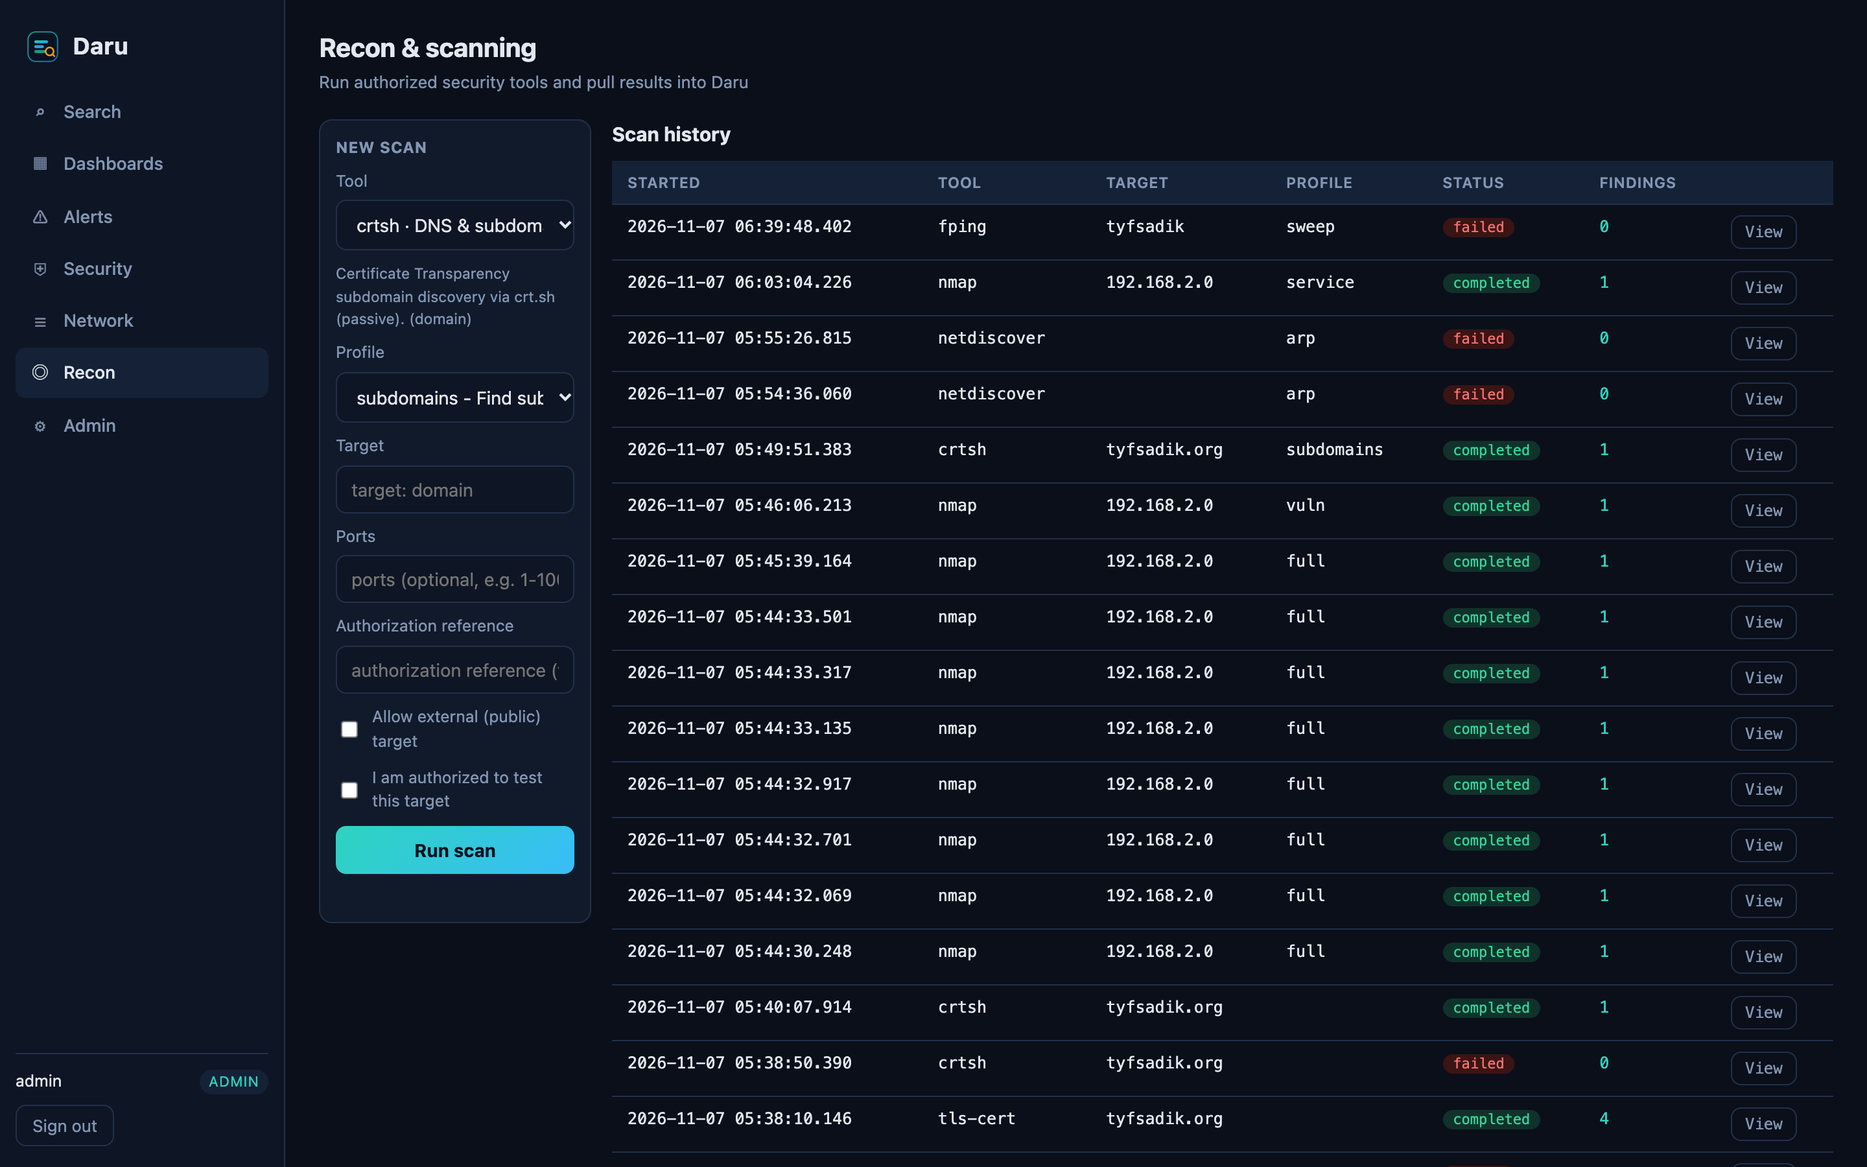
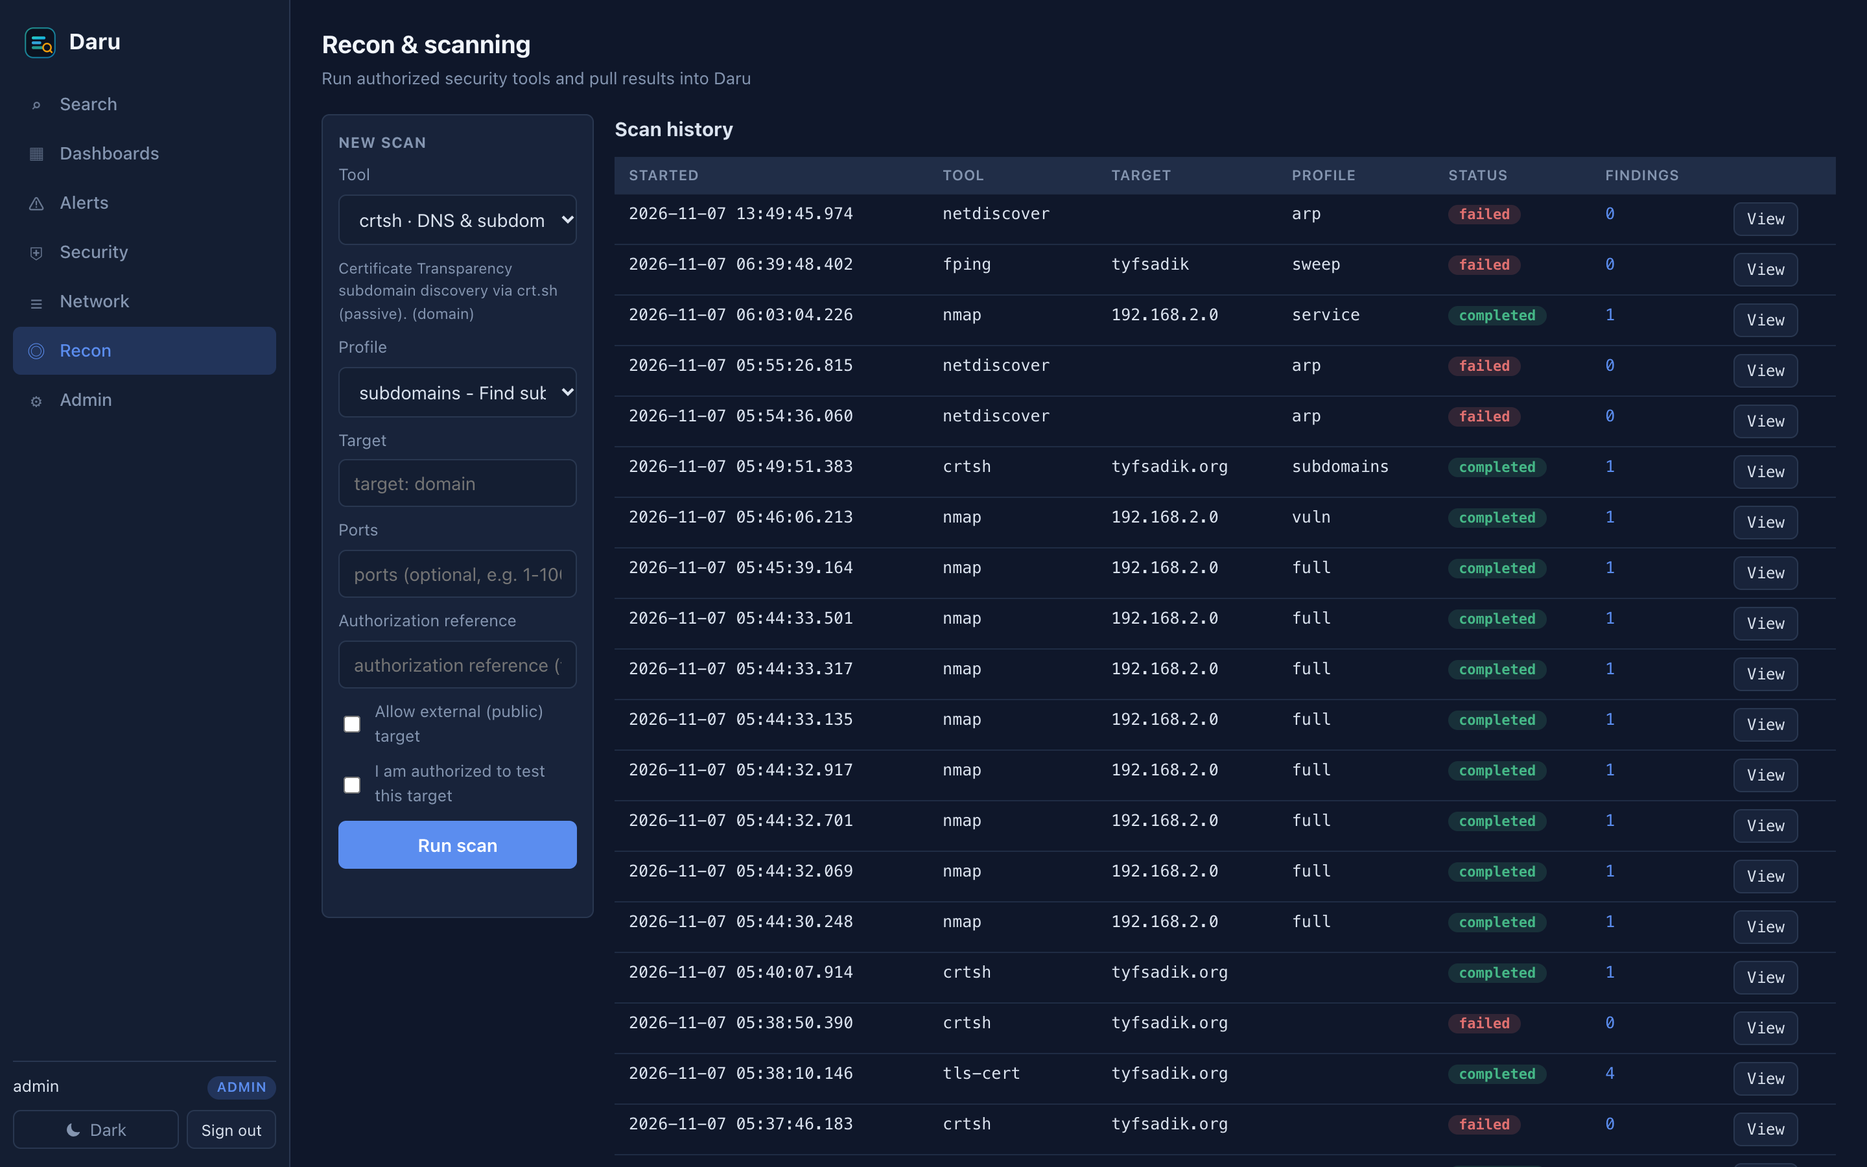
Restyle UI for a muted enterprise look with a light and dark theme
Replace the glowing teal palette with a muted slate-and-blue enterprise
theme, flatten buttons and badges, tighten table density, and soften the
chart colors. Add a light theme and a persistent light/dark toggle in the
sidebar. Rebrand the banner and recapture screenshots in both themes.

diff --git a/internal/web/static/style.css b/internal/web/static/style.css
@@ -1,144 +1,200 @@
+/* Daru UI. Enterprise SIEM look with a light and a dark theme.
+   Colors are tokens; non-color sizing lives in :root and is shared. */
 :root {
-  --bg: #0a0f1a;
-  --bg-2: #0e1524;
-  --panel: #111a2b;
-  --panel-2: #152136;
-  --border: #22304a;
-  --text: #e2e8f0;
-  --muted: #8296b3;
-  --accent: #2dd4bf;
-  --accent-2: #38bdf8;
-  --amber: #f59e0b;
-  --red: #f87171;
-  --green: #34d399;
   --mono: ui-monospace, "SF Mono", "JetBrains Mono", Menlo, Consolas, monospace;
-  --sans: system-ui, -apple-system, "Segoe UI", Roboto, sans-serif;
+  --sans: system-ui, -apple-system, "Segoe UI", Roboto, Helvetica, sans-serif;
+  --radius: 6px;
+  --radius-lg: 10px;
 }
+
+/* Dark enterprise theme (default) */
+:root, :root[data-theme="dark"] {
+  --bg: #0f172a;
+  --bg-2: #141e32;
+  --panel: #18233a;
+  --panel-2: #202d47;
+  --border: #293750;
+  --border-soft: #1f2c44;
+  --text: #dbe3ef;
+  --text-strong: #f1f5fb;
+  --muted: #8495b0;
+  --accent: #5b8def;
+  --accent-weak: #22345a;
+  --info: #4aa8d8;
+  --green: #45b887;
+  --amber: #d59b3f;
+  --red: #e07070;
+  --on-accent: #ffffff;
+  --shadow: 0 10px 30px rgba(0,0,0,0.35);
+}
+
+/* Light theme */
+:root[data-theme="light"] {
+  --bg: #f4f6fa;
+  --bg-2: #eceff5;
+  --panel: #ffffff;
+  --panel-2: #f2f5fa;
+  --border: #d8dee8;
+  --border-soft: #e5e9f0;
+  --text: #28344a;
+  --text-strong: #141c2b;
+  --muted: #5e6b80;
+  --accent: #2f6fe0;
+  --accent-weak: #e4edfc;
+  --info: #1a84b8;
+  --green: #1f9d63;
+  --amber: #b9791d;
+  --red: #d04848;
+  --on-accent: #ffffff;
+  --shadow: 0 8px 24px rgba(31,42,64,0.10);
+}
+
 * { box-sizing: border-box; }
 html, body { height: 100%; }
 body {
   margin: 0; background: var(--bg); color: var(--text);
   font-family: var(--sans); font-size: 14px; line-height: 1.5;
+  -webkit-font-smoothing: antialiased;
 }
 .hidden { display: none !important; }
-a { color: var(--accent-2); text-decoration: none; }
+a { color: var(--accent); text-decoration: none; }
+a:hover { text-decoration: underline; }
 button { font-family: inherit; cursor: pointer; }
 
 /* Layout */
-.app { display: grid; grid-template-columns: 220px 1fr; height: 100vh; }
+.app { display: grid; grid-template-columns: 224px 1fr; height: 100vh; }
 .sidebar {
   background: var(--bg-2); border-right: 1px solid var(--border);
-  display: flex; flex-direction: column; padding: 16px 12px;
+  display: flex; flex-direction: column; padding: 14px 10px;
 }
-.brand { display: flex; align-items: center; gap: 10px; padding: 6px 8px 18px; }
-.brand-name { font-weight: 700; font-size: 18px; letter-spacing: 0.5px; }
-.nav { display: flex; flex-direction: column; gap: 2px; flex: 1; }
+.brand { display: flex; align-items: center; gap: 9px; padding: 6px 8px 16px; }
+.brand-name { font-weight: 700; font-size: 17px; letter-spacing: 0.3px; color: var(--text-strong); }
+.nav { display: flex; flex-direction: column; gap: 1px; flex: 1; }
 .nav a {
-  display: flex; align-items: center; gap: 10px; padding: 9px 11px;
-  border-radius: 8px; color: var(--muted); font-weight: 500; font-size: 13.5px;
+  display: flex; align-items: center; gap: 10px; padding: 8px 10px;
+  border-radius: var(--radius); color: var(--muted); font-weight: 500; font-size: 13.5px;
 }
-.nav a:hover { background: var(--panel); color: var(--text); }
-.nav a.active { background: var(--panel-2); color: var(--text); }
-.nav a .ic { width: 16px; text-align: center; opacity: 0.9; }
-.sidebar-foot { border-top: 1px solid var(--border); padding-top: 12px; margin-top: 8px; }
-.user-chip { display: flex; align-items: center; justify-content: space-between; font-size: 12.5px; margin-bottom: 8px; }
-.role-badge { background: var(--panel-2); color: var(--accent); padding: 1px 7px; border-radius: 10px; font-size: 11px; text-transform: uppercase; letter-spacing: 0.5px; }
-.main { overflow: auto; padding: 22px 26px; }
+.nav a:hover { background: var(--panel); color: var(--text); text-decoration: none; }
+.nav a.active { background: var(--accent-weak); color: var(--accent); }
+.nav a.active .ic { opacity: 1; }
+.nav a .ic { width: 16px; text-align: center; opacity: 0.75; font-size: 14px; }
+.sidebar-foot { border-top: 1px solid var(--border); padding-top: 10px; margin-top: 8px; display: flex; flex-direction: column; gap: 8px; }
+.user-chip { display: flex; align-items: center; justify-content: space-between; font-size: 12.5px; }
+.role-badge { background: var(--accent-weak); color: var(--accent); padding: 1px 7px; border-radius: 10px; font-size: 10.5px; text-transform: uppercase; letter-spacing: 0.5px; font-weight: 600; }
+.foot-actions { display: flex; gap: 6px; }
+.main { overflow: auto; padding: 20px 24px; }
+
+/* Theme toggle */
+.theme-toggle {
+  background: transparent; color: var(--muted); border: 1px solid var(--border);
+  border-radius: var(--radius); padding: 6px 10px; font-size: 13px; display: inline-flex;
+  align-items: center; gap: 7px; flex: 1; justify-content: center;
+}
+.theme-toggle:hover { color: var(--text); border-color: var(--accent); }
 
 /* Login */
-.login { display: grid; place-items: center; height: 100vh; background: radial-gradient(1200px 600px at 50% -10%, #12243b 0%, var(--bg) 55%); }
-.login-card { background: var(--panel); border: 1px solid var(--border); border-radius: 16px; padding: 32px; width: 340px; display: flex; flex-direction: column; gap: 12px; box-shadow: 0 24px 60px rgba(0,0,0,0.4); }
+.login { display: grid; place-items: center; height: 100vh; background: var(--bg); }
+.login-card { background: var(--panel); border: 1px solid var(--border); border-radius: var(--radius-lg); padding: 30px; width: 340px; display: flex; flex-direction: column; gap: 12px; box-shadow: var(--shadow); }
 .login-brand { display: flex; align-items: center; gap: 12px; }
-.login-brand h1 { margin: 0; font-size: 26px; }
+.login-brand h1 { margin: 0; font-size: 25px; color: var(--text-strong); }
 .login-sub { color: var(--muted); margin: -6px 0 10px; font-size: 13px; }
 .login label, .form label { display: flex; flex-direction: column; gap: 5px; font-size: 12.5px; color: var(--muted); }
 .login input, .form input, .form select, .form textarea {
   background: var(--bg-2); border: 1px solid var(--border); color: var(--text);
-  border-radius: 8px; padding: 9px 11px; font-size: 14px; font-family: inherit;
+  border-radius: var(--radius); padding: 9px 11px; font-size: 14px; font-family: inherit;
+}
+.login input:focus, .form input:focus, .form select:focus, .form textarea:focus {
+  outline: none; border-color: var(--accent); box-shadow: 0 0 0 3px var(--accent-weak);
 }
 .login-error, .form-error { color: var(--red); font-size: 12.5px; min-height: 16px; margin: 0; }
 
-/* Buttons */
-.btn-primary { background: linear-gradient(135deg, var(--accent), var(--accent-2)); color: #06121e; border: 0; border-radius: 8px; padding: 10px 14px; font-weight: 700; font-size: 14px; }
-.btn-primary:hover { filter: brightness(1.07); }
-.btn-ghost { background: transparent; color: var(--muted); border: 1px solid var(--border); border-radius: 8px; padding: 7px 12px; font-size: 13px; }
-.btn-ghost:hover { color: var(--text); border-color: var(--accent); }
+/* Buttons: flat, no glow */
+.btn-primary { background: var(--accent); color: var(--on-accent); border: 1px solid var(--accent); border-radius: var(--radius); padding: 9px 14px; font-weight: 600; font-size: 14px; }
+.btn-primary:hover { filter: brightness(0.94); }
+.btn-ghost { background: var(--panel); color: var(--text); border: 1px solid var(--border); border-radius: var(--radius); padding: 7px 12px; font-size: 13px; }
+.btn-ghost:hover { border-color: var(--accent); color: var(--accent); }
 .btn-sm { padding: 5px 10px; font-size: 12px; }
-.btn-danger { color: var(--red); border-color: #5b2b2b; }
+.btn-danger { color: var(--red); border-color: color-mix(in srgb, var(--red) 45%, var(--border)); }
+.btn-danger:hover { border-color: var(--red); color: var(--red); }
 
 /* Headings */
-.page-head { display: flex; align-items: center; justify-content: space-between; margin-bottom: 18px; }
-.page-head h2 { margin: 0; font-size: 20px; }
+.page-head { display: flex; align-items: center; justify-content: space-between; margin-bottom: 18px; gap: 12px; }
+.page-head h2 { margin: 0; font-size: 19px; color: var(--text-strong); }
 .page-sub { color: var(--muted); font-size: 13px; margin-top: 2px; }
 
 /* Search */
 .search-bar { display: flex; gap: 10px; margin-bottom: 14px; }
-.search-input { flex: 1; display: flex; background: var(--panel); border: 1px solid var(--border); border-radius: 10px; overflow: hidden; }
+.search-input { flex: 1; display: flex; background: var(--panel); border: 1px solid var(--border); border-radius: var(--radius); overflow: hidden; }
+.search-input:focus-within { border-color: var(--accent); box-shadow: 0 0 0 3px var(--accent-weak); }
 .search-input textarea {
   flex: 1; background: transparent; border: 0; color: var(--text);
   font-family: var(--mono); font-size: 13.5px; padding: 11px 13px; resize: none; outline: none; min-height: 44px;
 }
-.time-select { background: var(--panel); border: 1px solid var(--border); color: var(--text); border-radius: 10px; padding: 0 12px; font-size: 13px; }
+.time-select { background: var(--panel); border: 1px solid var(--border); color: var(--text); border-radius: var(--radius); padding: 0 12px; font-size: 13px; }
 .search-meta { display: flex; gap: 18px; color: var(--muted); font-size: 12.5px; margin-bottom: 12px; }
 .search-layout { display: grid; grid-template-columns: 210px 1fr; gap: 16px; }
-.fields-panel { background: var(--panel); border: 1px solid var(--border); border-radius: 10px; padding: 12px; height: fit-content; max-height: 70vh; overflow: auto; }
-.fields-panel h4 { margin: 0 0 8px; font-size: 12px; text-transform: uppercase; letter-spacing: 0.5px; color: var(--muted); }
-.field-item { display: flex; justify-content: space-between; padding: 5px 7px; border-radius: 6px; font-size: 12.5px; cursor: pointer; }
+.fields-panel { background: var(--panel); border: 1px solid var(--border); border-radius: var(--radius); padding: 12px; height: fit-content; max-height: 70vh; overflow: auto; }
+.fields-panel h4 { margin: 0 0 8px; font-size: 11.5px; text-transform: uppercase; letter-spacing: 0.5px; color: var(--muted); }
+.field-item { display: flex; justify-content: space-between; padding: 5px 7px; border-radius: 5px; font-size: 12.5px; cursor: pointer; }
 .field-item:hover { background: var(--panel-2); }
-.field-item .fname { font-family: var(--mono); color: var(--accent-2); }
+.field-item .fname { font-family: var(--mono); color: var(--accent); }
 .field-item .fcount { color: var(--muted); }
 
 /* Results panel */
-.results { background: var(--panel); border: 1px solid var(--border); border-radius: 10px; overflow: hidden; }
-.results-tabs { display: flex; gap: 2px; border-bottom: 1px solid var(--border); padding: 8px 10px 0; }
-.results-tab { background: transparent; border: 0; color: var(--muted); padding: 7px 13px; font-size: 13px; border-radius: 7px 7px 0 0; }
-.results-tab.active { background: var(--panel-2); color: var(--text); }
+.results { background: var(--panel); border: 1px solid var(--border); border-radius: var(--radius); overflow: hidden; }
+.results-tabs { display: flex; gap: 2px; border-bottom: 1px solid var(--border); padding: 7px 8px 0; }
+.results-tab { background: transparent; border: 0; color: var(--muted); padding: 7px 13px; font-size: 13px; border-radius: 5px 5px 0 0; }
+.results-tab:hover { color: var(--text); }
+.results-tab.active { background: var(--panel-2); color: var(--text-strong); font-weight: 500; }
 .results-body { padding: 0; max-height: 64vh; overflow: auto; }
 
-/* Table */
+/* Table: dense */
 table.grid { width: 100%; border-collapse: collapse; font-size: 13px; }
-table.grid th, table.grid td { text-align: left; padding: 8px 12px; border-bottom: 1px solid var(--border); vertical-align: top; }
-table.grid th { position: sticky; top: 0; background: var(--panel-2); color: var(--muted); font-weight: 600; font-size: 11.5px; text-transform: uppercase; letter-spacing: 0.4px; z-index: 1; }
+table.grid th, table.grid td { text-align: left; padding: 6px 11px; border-bottom: 1px solid var(--border-soft); vertical-align: top; }
+table.grid th { position: sticky; top: 0; background: var(--panel-2); color: var(--muted); font-weight: 600; font-size: 11px; text-transform: uppercase; letter-spacing: 0.4px; z-index: 1; }
 table.grid td { font-family: var(--mono); font-size: 12.5px; }
-table.grid tr:hover td { background: var(--bg-2); }
+table.grid tbody tr:hover td { background: var(--panel-2); }
 .num { text-align: right; color: var(--accent); }
 
 /* Events */
-.event { border-bottom: 1px solid var(--border); padding: 10px 14px; }
-.event-time { color: var(--amber); font-family: var(--mono); font-size: 12px; }
+.event { border-bottom: 1px solid var(--border-soft); padding: 9px 14px; }
+.event-time { color: var(--info); font-family: var(--mono); font-size: 12px; }
 .event-raw { font-family: var(--mono); font-size: 12.5px; margin: 4px 0; white-space: pre-wrap; word-break: break-word; }
 .event-fields { display: flex; flex-wrap: wrap; gap: 6px; margin-top: 5px; }
-.chip { background: var(--panel-2); border: 1px solid var(--border); border-radius: 6px; padding: 1px 8px; font-size: 11.5px; font-family: var(--mono); color: var(--muted); }
-.chip b { color: var(--accent-2); font-weight: 500; }
+.chip { background: var(--panel-2); border: 1px solid var(--border); border-radius: 5px; padding: 1px 8px; font-size: 11.5px; font-family: var(--mono); color: var(--muted); }
+.chip b { color: var(--accent); font-weight: 500; }
 
 /* Chart */
 .chart { padding: 16px; }
-.hist { display: flex; align-items: flex-end; gap: 2px; height: 90px; padding: 10px 14px 0; border-bottom: 1px solid var(--border); }
-.hist .bar { flex: 1; background: linear-gradient(var(--accent-2), var(--accent)); border-radius: 2px 2px 0 0; min-height: 2px; opacity: 0.85; }
+.hist { display: flex; align-items: flex-end; gap: 2px; height: 90px; padding: 10px 14px 0; border-bottom: 1px solid var(--border-soft); }
+.hist .bar { flex: 1; background: var(--accent); border-radius: 2px 2px 0 0; min-height: 2px; opacity: 0.9; }
 .hist .bar:hover { opacity: 1; }
 
 /* Cards & grids */
 .cards { display: grid; grid-template-columns: repeat(auto-fill, minmax(230px, 1fr)); gap: 14px; }
-.card { background: var(--panel); border: 1px solid var(--border); border-radius: 12px; padding: 16px; }
-.card h3 { margin: 0 0 4px; font-size: 15px; }
+.card { background: var(--panel); border: 1px solid var(--border); border-radius: var(--radius); padding: 15px; }
+.card h3 { margin: 0 0 4px; font-size: 15px; color: var(--text-strong); }
 .card .meta { color: var(--muted); font-size: 12.5px; }
-.stat-row { display: grid; grid-template-columns: repeat(auto-fit, minmax(140px, 1fr)); gap: 12px; margin-bottom: 18px; }
-.stat { background: var(--panel); border: 1px solid var(--border); border-radius: 12px; padding: 14px 16px; }
-.stat .n { font-size: 24px; font-weight: 700; color: var(--accent); }
-.stat .l { color: var(--muted); font-size: 12px; text-transform: uppercase; letter-spacing: 0.4px; }
+.stat-row { display: grid; grid-template-columns: repeat(auto-fit, minmax(150px, 1fr)); gap: 12px; margin-bottom: 18px; }
+.stat { background: var(--panel); border: 1px solid var(--border); border-radius: var(--radius); padding: 14px 16px; }
+.stat .n { font-size: 24px; font-weight: 700; color: var(--text-strong); }
+.stat .l { color: var(--muted); font-size: 11.5px; text-transform: uppercase; letter-spacing: 0.4px; margin-top: 2px; }
 
-/* Forms / tables admin */
+/* Forms / admin */
 .form { display: flex; flex-direction: column; gap: 11px; max-width: 420px; }
 .toolbar { display: flex; gap: 10px; margin-bottom: 14px; flex-wrap: wrap; align-items: center; }
-.badge { padding: 1px 8px; border-radius: 10px; font-size: 11px; }
-.sev-high, .sev-critical { background: #3b1414; color: var(--red); }
-.sev-medium { background: #3a2c10; color: var(--amber); }
-.sev-low { background: #10322a; color: var(--green); }
-.notice { background: var(--panel-2); border: 1px solid var(--border); border-left: 3px solid var(--accent); border-radius: 8px; padding: 10px 14px; margin-bottom: 14px; font-size: 13px; }
-.token-reveal { font-family: var(--mono); background: var(--bg-2); border: 1px dashed var(--accent); padding: 10px; border-radius: 8px; word-break: break-all; font-size: 12.5px; }
+.badge { padding: 1px 8px; border-radius: 10px; font-size: 11px; font-weight: 600; }
+.badge-ok, .status-completed { background: color-mix(in srgb, var(--green) 16%, transparent); color: var(--green); }
+.badge-fail, .status-failed { background: color-mix(in srgb, var(--red) 16%, transparent); color: var(--red); }
+.sev-high, .sev-critical { background: color-mix(in srgb, var(--red) 16%, transparent); color: var(--red); }
+.sev-medium { background: color-mix(in srgb, var(--amber) 18%, transparent); color: var(--amber); }
+.sev-low { background: color-mix(in srgb, var(--green) 16%, transparent); color: var(--green); }
+.notice { background: var(--panel-2); border: 1px solid var(--border); border-left: 3px solid var(--accent); border-radius: var(--radius); padding: 10px 14px; margin-bottom: 14px; font-size: 13px; }
+.token-reveal { font-family: var(--mono); background: var(--bg-2); border: 1px dashed var(--accent); padding: 10px; border-radius: var(--radius); word-break: break-all; font-size: 12.5px; }
 .empty { color: var(--muted); text-align: center; padding: 40px; font-size: 13px; }
 .spinner { color: var(--muted); padding: 30px; text-align: center; }
 .row-actions { display: flex; gap: 6px; }
+
 @media (max-width: 820px) {
   .app { grid-template-columns: 1fr; }
   .sidebar { position: fixed; z-index: 10; height: 100vh; transform: translateX(-100%); transition: transform .2s; }

diff --git a/internal/web/static/app.js b/internal/web/static/app.js
@@ -1,5 +1,32 @@
 "use strict";
 
+// --- theme ---
+function applyTheme(t) {
+  document.documentElement.setAttribute("data-theme", t);
+  const other = t === "dark" ? "Light" : "Dark";
+  const label = document.getElementById("theme-label");
+  const ic = document.getElementById("theme-ic");
+  if (label) label.textContent = other;
+  if (ic) ic.textContent = t === "dark" ? "☀" : "☾";
+}
+(function initTheme() {
+  let t = null;
+  try { t = localStorage.getItem("daru_theme"); } catch (_) {}
+  if (!t) {
+    t = window.matchMedia && window.matchMedia("(prefers-color-scheme: light)").matches ? "light" : "dark";
+  }
+  applyTheme(t);
+  document.addEventListener("DOMContentLoaded", () => {
+    applyTheme(document.documentElement.getAttribute("data-theme"));
+    const btn = document.getElementById("theme-toggle");
+    if (btn) btn.addEventListener("click", () => {
+      const next = document.documentElement.getAttribute("data-theme") === "dark" ? "light" : "dark";
+      applyTheme(next);
+      try { localStorage.setItem("daru_theme", next); } catch (_) {}
+    });
+  });
+})();
+
 // --- API helper ---
 const API = {
   async call(method, path, body) {
@@ -297,7 +324,7 @@ function renderViz(r) {
   for (const row of r.rows) for (const s of series) max = Math.max(max, Number(row[s]) || 0);
   max = max || 1;
 
-  const palette = ["#2dd4bf", "#38bdf8", "#f59e0b", "#a78bfa", "#f87171", "#34d399", "#fb923c", "#60a5fa", "#e879f9", "#4ade80", "#facc15", "#22d3ee"];
+  const palette = ["#5e81f4", "#4bb4a0", "#d6a24b", "#c97b6a", "#8b86d4", "#5aa9d6", "#a77bbf", "#6aa86b", "#c98aa8", "#7f8ca3", "#4e9e86", "#b06f6f"];
   const chart = el("div", { class: "chart" });
   // Legend.
   const legend = el("div", { style: "display:flex;gap:14px;flex-wrap:wrap;margin-bottom:12px;font-size:12px;color:var(--muted)" });

diff --git a/internal/web/static/index.html b/internal/web/static/index.html
@@ -17,7 +17,10 @@
     <nav class="nav" id="nav"></nav>
     <div class="sidebar-foot">
       <div class="user-chip"><span id="user-name"></span><span class="role-badge" id="user-role"></span></div>
-      <button class="btn-ghost" id="logout-btn">Sign out</button>
+      <div class="foot-actions">
+        <button class="theme-toggle" id="theme-toggle" title="Toggle light or dark theme"><span id="theme-ic">◐</span><span id="theme-label">Light</span></button>
+        <button class="btn-ghost btn-sm" id="logout-btn">Sign out</button>
+      </div>
     </div>
   </aside>
   <main class="main" id="view"></main>

diff --git a/README.md b/README.md
@@ -56,6 +56,10 @@ security tools, all on hardware you control.
 
 ![Network](docs/screenshot-network.png)
 
+**Light theme, one click away:**
+
+![Search in light theme](docs/screenshot-search-light.png)
+
 ## Install (one command)
 
 Daru runs on Linux, macOS, Raspberry Pi, Windows, and Android (Termux).
